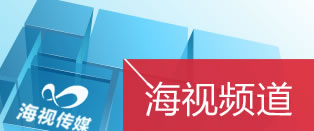
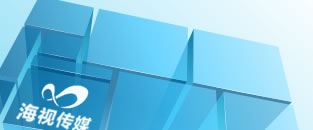
首页修改

diff --git a/css/xmnn.css b/css/xmnn.css
@@ -110,17 +110,14 @@ strong{font-weight:bold;}
 .w{width: 997px; margin: 0 auto;}
 #h,#b,#f{width:1202px; margin:0 auto;}
 #h{position:relative; background:#fff;}
-#h .r1{background:url(../img/h-r1.png) repeat-x; position:absolute; z-index:999; width:100%; top:53px;}
-#h .r1 .c1{ background:url(../img/h-r1-c1.png) no-repeat; width:309px; height:182px; position:absolute; left:96px; top:-53px;}
-#h .r1 .c1 a{display:block;width:253px; height:71px; margin-left:25px; margin-top:37px; background:url(../img/h-r1-c1-a.png) no-repeat;}
+#h .r1{background:url(../img/h-r1.png) repeat-x; position:absolute; z-index:999; width:100%; top:45px;}
+#h .r1 .c1{ background:url(../img/h-r1-c1.png) no-repeat; width:249px; height:139px; position:absolute; left:96px; top:-56px;}
+#h .r1 .c1 a{display:block;width:253px; height:71px; margin-left:29px; margin-top:42px; background:url(../img/h-r1-c1-a.png) no-repeat;}
 .nav{color:#fff; margin-left:338px; padding:16px 0;}
 .nav a{color:#fff;}
 .nav a:hover{ color:#fff;}
 .nav .li{float:left; display:inline; position:relative; padding:0 12px; border-left:1px solid #FBE9EB;}
 .nav .li1{border:none;}
-.nav .li ul{position:absolute; top:48px; left:0; background:#DB2332; width:256px; height:24px; line-height:24px; padding-left:13px; display:none;}
-.nav .li .i1{ width:29px; height:15px; background:url(../img/h-r1-c2-i.png) no-repeat; position:absolute; top:-19px; left:26px;}
-.nav .li li{display:inline;}
 #h .r1 .c3{ width:125px; padding-top:8px;}
 #h .r1 .c3 a{ height:42px; line-height:36px; color:#fff; padding-left:50px; background:url(../img/h-r1-c3.png) no-repeat; display:block;}
 #b{background:#fff;}
@@ -128,10 +125,10 @@ strong{font-weight:bold;}
 #b .r1 .c1{width:292px; margin-right:56px;}
 #b .r1 .c2{width:292px;}
 #b .r1 .c3{width:312px;}
-#f{background:#DB2332; height:67px; color:#fff;}
+#f{background:#DB2332; height:50px; color:#fff;}
 #f .r1{position:relative;}
-#f .r1 .c1{padding-top:24px;}
-#f .r1 .c2{padding-top:14px;}
+#f .r1 .c1{padding-top:20px;}
+#f .r1 .c2{padding-top:10px;}
 #f .r1 .c2 a{background:url(../img/f-r1-c2.png) no-repeat; width:227px; height:24px; display:block;}
 #f .r1 .c3{position:absolute; right:-211px; top:-94px;}
 #f .r1 .c3 a{ display:block; width:96px; height:94px; background:url(../img/f-r1-c3.gif) no-repeat;}
@@ -142,24 +139,28 @@ strong{font-weight:bold;}
 .m1{margin-bottom:31px;}
 .m1 .br1{margin-left:-12px;}
 .m1 .br1 dl{margin-left:12px; position:relative;}
-.m1 .br1 dt{ width:191px; height:52px; padding-top:22px; position:absolute; right:5px; bottom:5px; font-size:37px;}
-.m1 .br1 dt a{color:#fff;}
-.m1 .br1 .dl1 dt{background:#DC3846;}
-.m1 .br1 .dl2 dt{background:#E4A812;}
-.m1 .br1 .dl3 dt{background:#1F9DE9;}
+.m1 .br1 dt{ position:absolute; right:5px; bottom:5px; font-size:37px;}
+.m1 .br1 dt a{ display:block; text-indent:-999em; width:191px; height:51px; padding-top:22px;}
+.m1 .dl1 dt a{background:url(../img/m1-dl1.png) no-repeat;}
+.m1 .dl1 dt a:hover{background:url(../img/m1-dl1-hover.png) no-repeat;}
+.m1 .dl2 dt a{background:url(../img/m1-dl2.png) no-repeat;}
+.m1 .dl2 dt a:hover{background:url(../img/m1-dl2-hover.png) no-repeat;}
+.m1 .dl3 dt a{background:url(../img/m1-dl3.png) no-repeat;}
+.m1 .dl3 dt a:hover{background:url(../img/m1-dl3-hover.png) no-repeat;}
 .m1 .br1 img{border:5px solid #E4E4E4;}
 
 /*-------------------海视新闻m2--------------------------*/
-.m2 .h{margin-bottom:22px;}
+.m2 .h{margin-bottom:18px;}
 .m2 .br1{margin-bottom:9px;}
 .m2 .br1 img{padding:3px; border:1px solid #999999;}
 .m2 .br2{margin-bottom:10px;}
-.m2 .br2 li{padding-left:17px; background:url(../img/m2-li.gif) no-repeat 7px center; font-size:14px; line-height:24px;}
+.m2 .br2 li{padding-left:17px; background:url(../img/m2-li.gif) no-repeat 7px center; font-size:14px; line-height:26px;}
 .m2 .br3{ text-align:right;}
 /*-------------------关于海视m3--------------------------*/
-.m3 .h{margin-bottom:22px;}
-.m3 .br1{margin-bottom:9px;}
-.m3 .br1 img{padding:3px; border:1px solid #999999;}
+.m3 .h{margin-bottom:18px;}
+.m3 .br1{margin-bottom:16px; border-bottom:1px solid #C2C0C0; padding-bottom:16px;}
+.m3 .br1 p{text-indent:2em; line-height:26px;}
+.m3 .br1 a{color:#DC3846;}
 .m3 .br2{margin-bottom:10px;}
 .m3 .br2 li{font-size:14px; line-height:24px;}
 .m3 .br3{ text-align:right;}

diff --git a/index.html b/index.html
@@ -18,16 +18,7 @@
             <div class="c2 fl">
                 <ul class="nav" role="navigation">
                     <li class="li li1"><a href="#">首页</a></li>
-                    <li class="li li2">
-                        <a href="#">关于海视</a>
-                        <ul>
-                        	<i class="i1"></i>
-                            <li><a href="#">公司介绍</a>/</li>
-                            <li><a href="#">公司理念</a>/</li>
-                            <li><a href="#">管理团队</a>/</li>
-                            <li><a href="#">大事记</a></li>
-                        </ul>
-                    </li>
+                    <li class="li li2"><a href="#">关于海视</a></li>
                     <li class="li li3"><a href="#">海视新闻</a></li>
                     <li class="li li4"><a href="#">海视频道</a></li>
                     <li class="li li5"><a href="#">海视服务</a></li>
@@ -74,20 +65,23 @@
                     <!--图片列表-->
                     <div class="img clearfix" role="img">
                         <!--循环3-->
-                        <dl>
+                        <dl class="dl1">
                             <dd>
                                 <a href="#"><img src="img/m1-i1.jpg" alt="海视频道"></a>
                             </dd>
+                            <dt><a href="#">海视频道</a></dt>
                         </dl>
-                        <dl>
+                        <dl class="dl2">
                             <dd>
                                 <a href="#"><img src="img/m1-i2.jpg" alt="海视服务"></a>
                             </dd>
+                            <dt><a href="#">海视服务</a></dt>
                         </dl>
-                        <dl>
+                        <dl class="dl3">
                             <dd>
                                 <a href="#"><img src="img/m1-i3.jpg" alt="魅力厦门"></a>
                             </dd>
+                            <dt><a href="#">魅力厦门</a></dt>
                         </dl>
                         <!--/循环-->
                     </div>
@@ -104,16 +98,18 @@
                         <h2>海视新闻</h2>
                     </div>
                     <div class="b">
-                    	<div class="br1">
-                        	<a href="#"><img src="img/m2-i1.jpg" alt=""></a>
-                        </div>
                     	<div class="br2">
                     		<!--新闻列表-->
 							<div class="list" role="list">
 								<ul>
-									<!--循环3-->
+									<!--循环8-->
 									<li><a href="#">标题</a></li>
 									<li><a href="#">标题</a></li>
+									<li><a href="#">标题</a></li>
+                                    <li><a href="#">标题</a></li>
+									<li><a href="#">标题</a></li>
+									<li><a href="#">标题</a></li>
+                                    <li><a href="#">标题</a></li>
 									<li><a href="#">标题</a></li>
 									<!--/循环-->
 								</ul>
@@ -135,17 +131,16 @@
                     </div>
                     <div class="b">
                     	<div class="br1">
-                        	<a href="#"><img src="img/m3-i1.jpg" alt=""></a>
+                        	<p>2011年10月，党的十七届六中全会正式推出《关于深化文化体制改革推动社会主义文化大发展大繁荣若干重大问题的决定》<a href="#">详细&gt;&gt;</a></p>
                         </div>
                     	<div class="br2">
                     		<!--新闻列表-->
 							<div class="list" role="list">
 								<ul>
-									<!--循环3-->
+                                    <li><strong>厦门市公共场所文化宣传电子视屏</strong></li>
 									<li>主管：中共厦门市委宣传部</li>
 									<li>主办：厦门日报社</li>
 									<li>运营机构：厦门海峡视界传媒有限公司</li>
-									<!--/循环-->
 								</ul>
 							</div>
 							<!--新闻列表-->

diff --git a/js/xmnn.js b/js/xmnn.js
@@ -1,8 +1,4 @@
 $(function(){
-	$('.nav .li').hover(function(){
-		$('.nav .li ul').hide();
-		$(this).find('ul').show();	
-	})
 	//tab
 		$('.tab .h li').hover(function(){
         $(this).addClass('active').siblings().removeClass('active');
